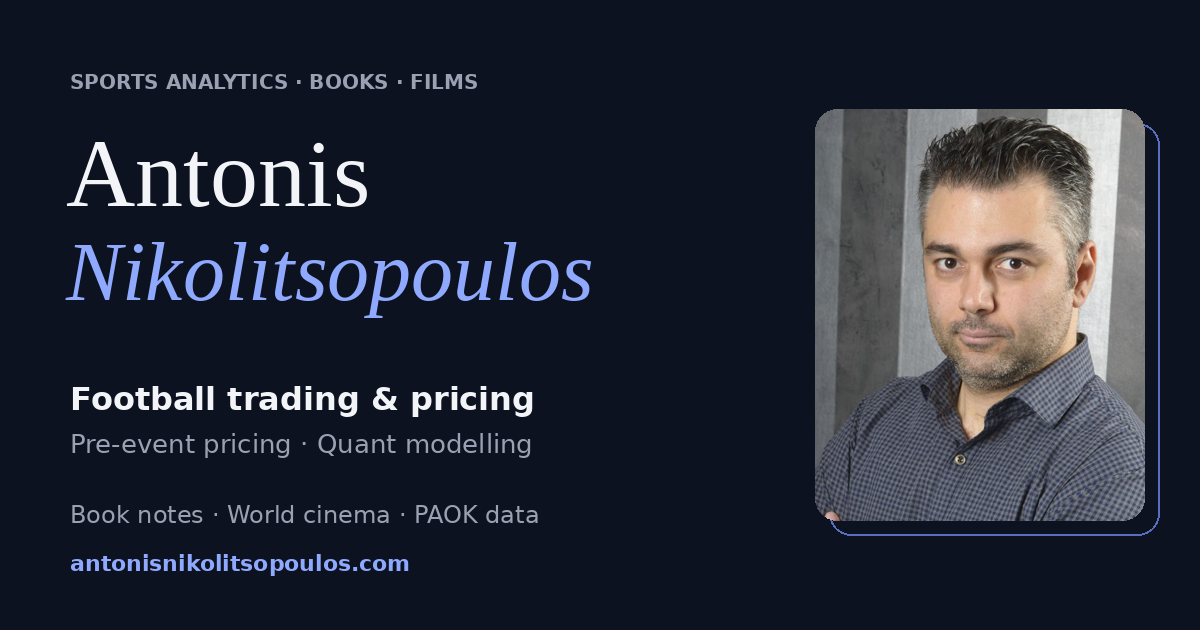
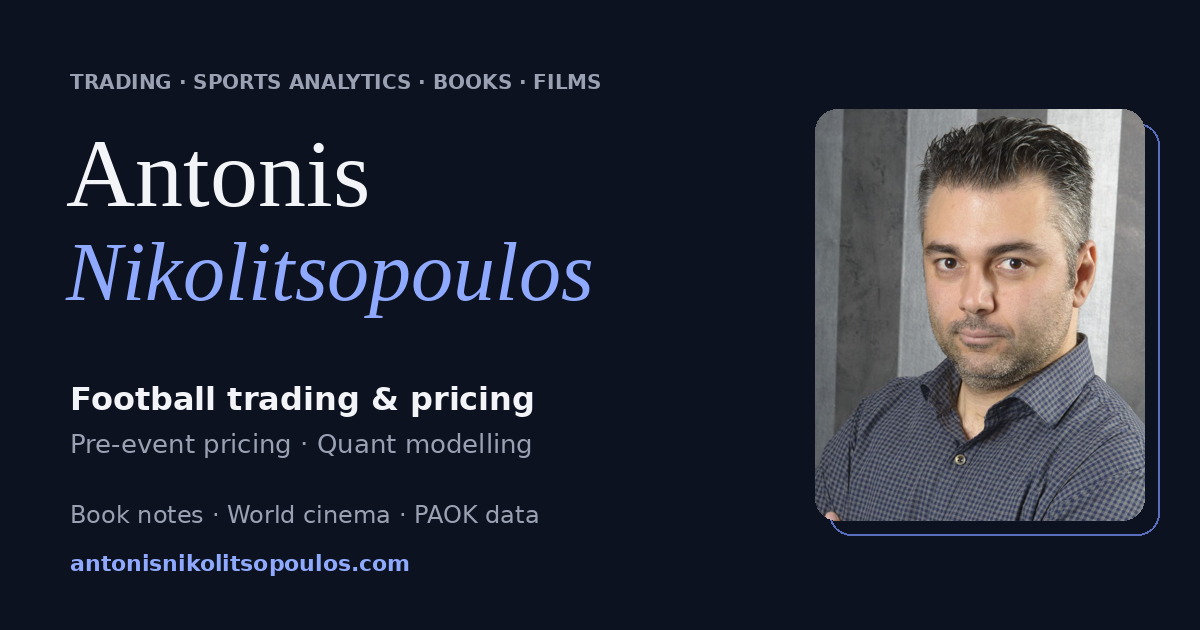
Tagline: add Trading
Claude-Session: https://claude.ai/code/session_01KcB8j1TnhArNwutZyoZPQU

Changed region(s): [[0.0617, 0.1206, 0.4933, 0.1508]]

diff --git a/index.html b/index.html
@@ -16,7 +16,7 @@
 <meta property="og:description" content="Football trading and sports analytics. Writing on books, decision science and world cinema, and PAOK data projects.">
 <meta property="og:url" content="https://antonisnikolitsopoulos.com/">
 <meta property="og:type" content="website">
-<meta property="og:image" content="https://antonisnikolitsopoulos.com/og.png?v=5">
+<meta property="og:image" content="https://antonisnikolitsopoulos.com/og.png?v=6">
 <meta property="og:image:width" content="1200">
 <meta property="og:image:height" content="630">
 <meta name="twitter:card" content="summary_large_image">
@@ -227,7 +227,7 @@ section.alt .card .meta span { background: var(--paper-2); }
   <div class="wrap bar">
     <a class="brand" href="#top" aria-label="Antonis Nikolitsopoulos, home">
       <span class="mono">A<i>N</i></span>
-      <span class="wordmark"><span>Antonis <em>Nikolitsopoulos</em></span><small>Sports Analytics · Books · Films</small></span>
+      <span class="wordmark"><span>Antonis <em>Nikolitsopoulos</em></span><small>Trading · Sports Analytics · Books · Films</small></span>
     </a>
     <ul class="social" aria-label="Social links">
       <li><a href="https://www.linkedin.com/in/antonis-nikolitsopoulos/" target="_blank" rel="noopener" aria-label="LinkedIn" title="LinkedIn"><svg><use href="#i-in"/></svg></a></li>
